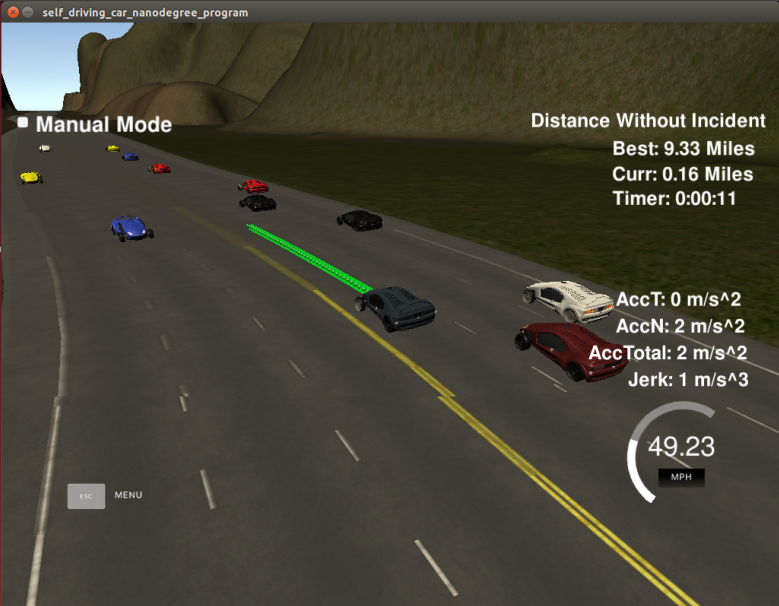
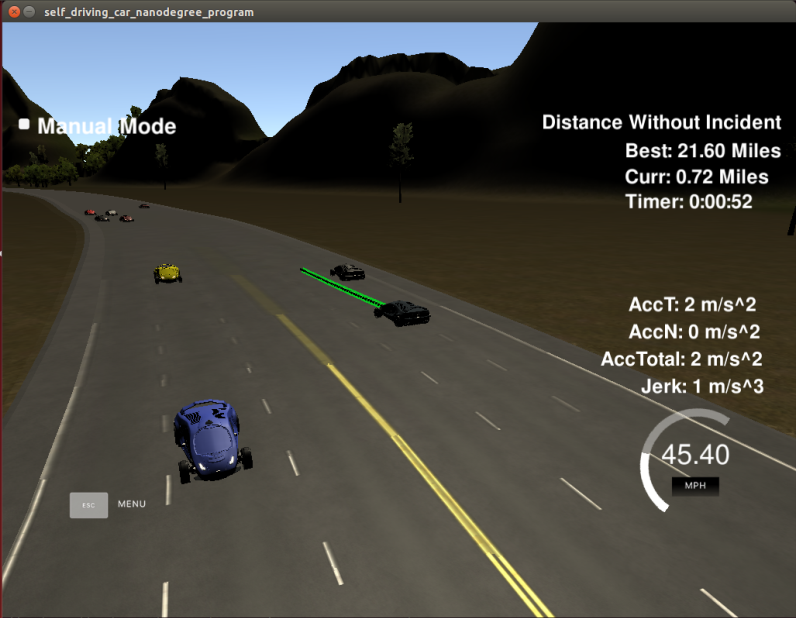
Updated improved run image and writeup

diff --git a/Model_Documentation.md b/Model_Documentation.md
@@ -37,7 +37,7 @@ You are reading it!
 
 ### 1. The car is able to drive at least 4.32 miles without incident.
 
-With my current implementation Car is able to drive 9.33Miles in the simulator without any incidents.
+With my current implementation Car is able to drive 21.60Miles in the simulator without any incidents.
 Check below image for Reference:
 
 ![alt text][image1]
@@ -58,12 +58,12 @@ Following is the code snippet from main.cpp showing initialization of lane and s
 
 ### 3. Max Acceleration and Jerk are not Exceeded. The car does not exceed a total acceleration of 10 m/s^2 and a jerk of 10 m/s^3.
 
-Acceleration and Jerks does not exceed the specified limits for the full run of 9.33Miles in simulator.
+Acceleration and Jerks does not exceed the specified limits for the full run of 21.60Miles in simulator.
 
 
 ### 4. Car does not have collisions. The car must not come into contact with any of the other cars on the road.
 
-No Collisions observed upto 9.33Miles run while drive or lane switch.
+No Collisions observed upto 21.60Miles run while drive or lane switch.
 
 
 ### 5. The car stays in its lane, except for the time between changing lanes. The car does not spend more than a 3 second length out side the lane lanes during changing lanes, and every other time the car stays inside one of the 3 lanes on the right hand side of the road.
